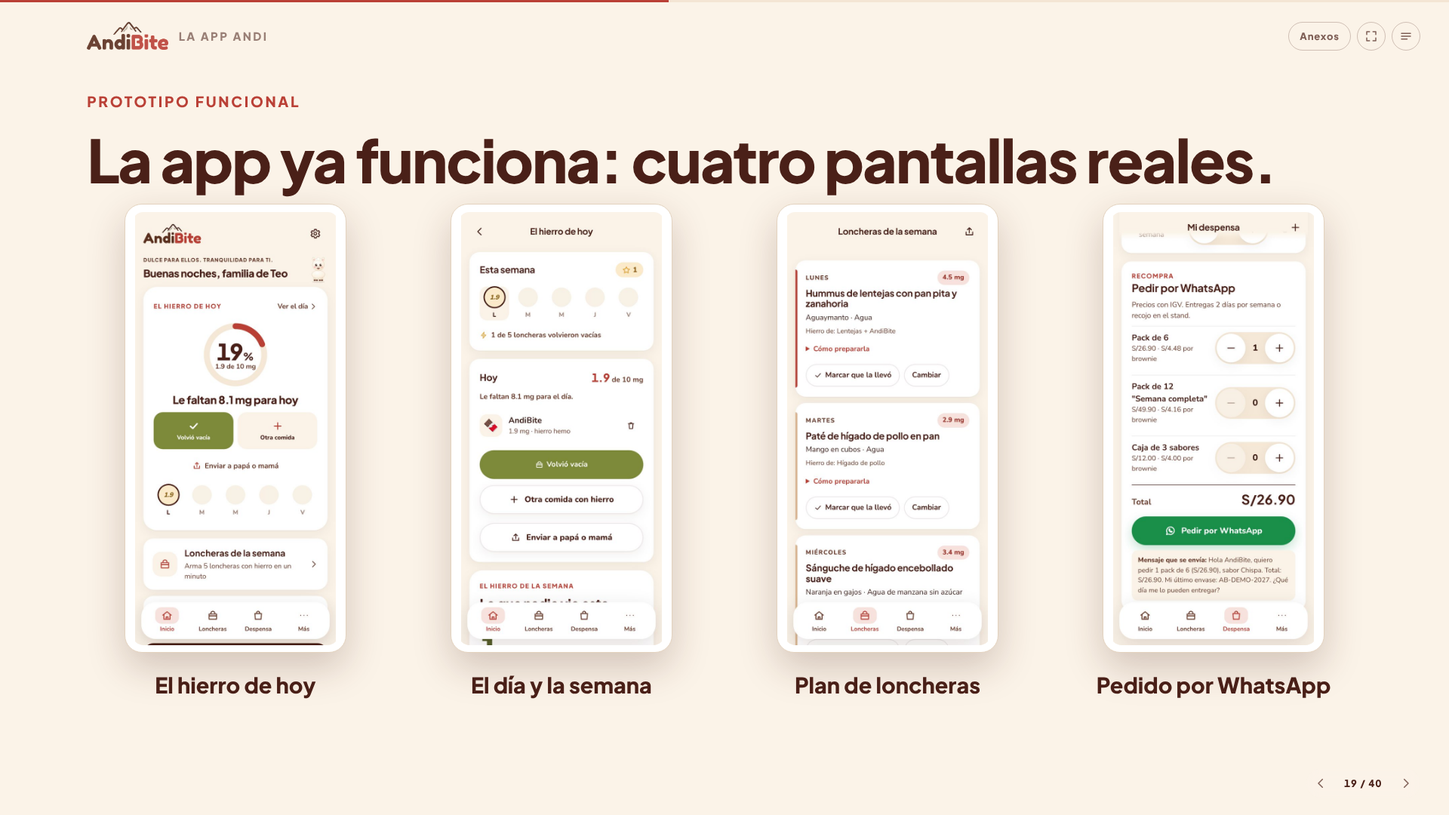
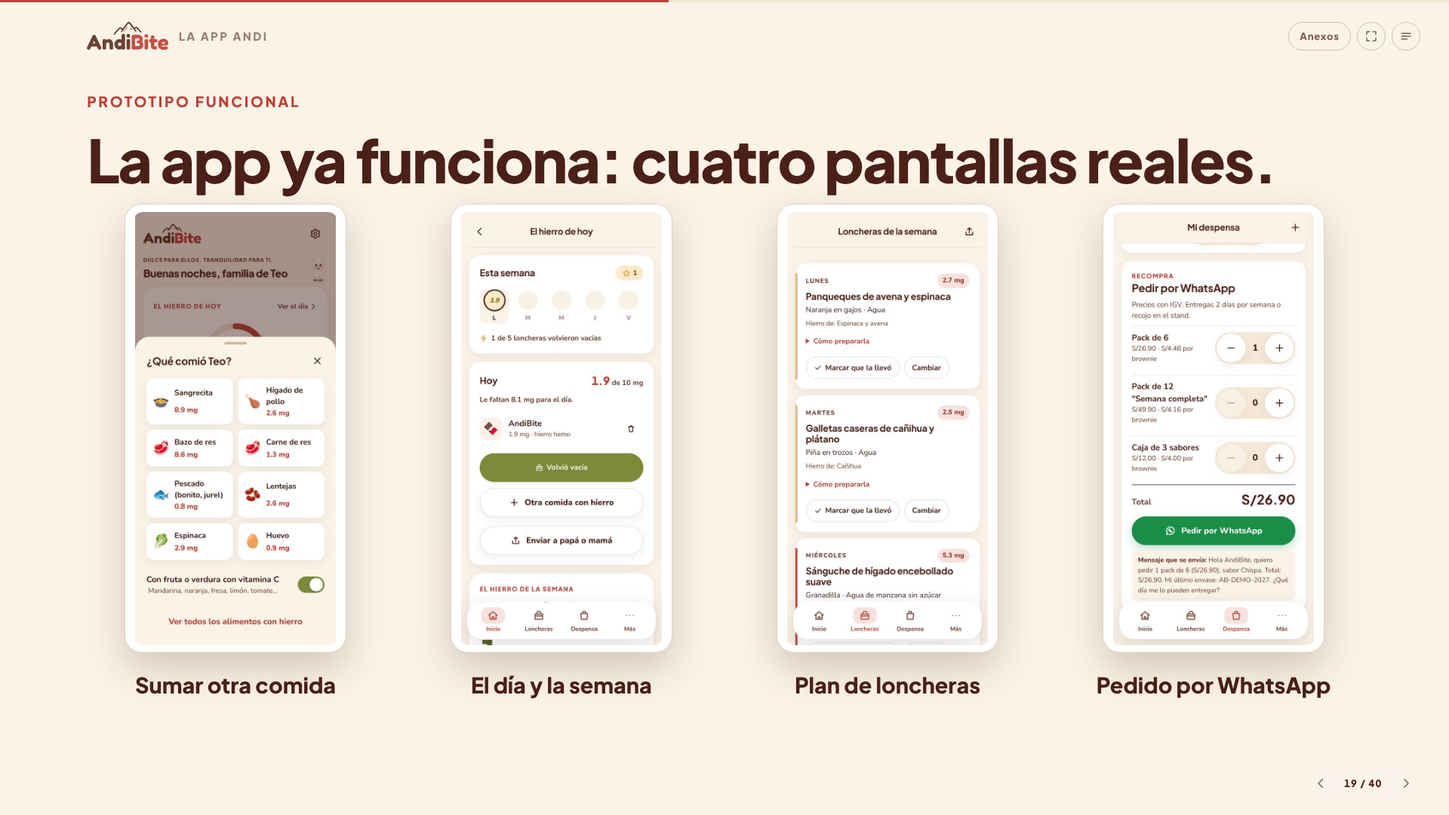
Ronda 2c: últimos ajustes del director y del diseñador
- App: encabezado opaco, pistas de los juegos en pastillas, textos sin 'el reto'.
- Presentación: pantalla 19 con 'Sumar otra comida' en vez de repetir el inicio, textos alternativos actualizados.
- HECHOS_v7 y documento de campaña al día.

Claude-Session: https://claude.ai/code/session_01Kfbf7cfV7pXUcNjjyaPCzV

diff --git a/04-reformulacion/T2/web-presentacion/index.html b/04-reformulacion/T2/web-presentacion/index.html
@@ -395,7 +395,7 @@
       </div>
       <p class="muted-lead in">Un brownie cubre cerca de la quinta parte del hierro que un niño de 4 a 8 años necesita al día.</p>
     </div>
-    <div class="phone phone-hero in"><img src="./img/app_reto.jpg" alt="Pantalla de inicio de la app Andi con el hierro de hoy" width="600" height="1298" loading="lazy" /></div>
+    <div class="phone phone-hero in"><img src="./img/app_reto.jpg" alt="Pantalla de inicio con el hierro de hoy" width="600" height="1298" loading="lazy" /></div>
   </div>
 </section>
 
@@ -405,8 +405,8 @@
     <p class="kicker in">Prototipo funcional</p>
     <h2 class="title in">La app ya funciona: cuatro pantallas reales.</h2>
     <div class="phones">
-      <figure class="in"><div class="phone"><img src="./img/app_reto.jpg" alt="Pantalla del reto lonchera vacía" width="600" height="1298" loading="lazy" /></div><figcaption>El hierro de hoy</figcaption></figure>
-      <figure class="in"><div class="phone"><img src="./img/app_semaforo.jpg" alt="Pantalla del semáforo de hierro semanal" width="600" height="1298" loading="lazy" /></div><figcaption>El día y la semana</figcaption></figure>
+      <figure class="in"><div class="phone"><img src="./img/app_comida.jpg" alt="Pantalla para sumar otra comida con hierro" width="600" height="1298" loading="lazy" /></div><figcaption>Sumar otra comida</figcaption></figure>
+      <figure class="in"><div class="phone"><img src="./img/app_semaforo.jpg" alt="Pantalla del hierro del día y de la semana" width="600" height="1298" loading="lazy" /></div><figcaption>El día y la semana</figcaption></figure>
       <figure class="in"><div class="phone"><img src="./img/app_plan.jpg" alt="Pantalla del plan de loncheras de la semana" width="600" height="1298" loading="lazy" /></div><figcaption>Plan de loncheras</figcaption></figure>
       <figure class="in"><div class="phone"><img src="./img/app_pedido.jpg" alt="Pantalla de la despensa y el pedido por WhatsApp" width="600" height="1298" loading="lazy" /></div><figcaption>Pedido por WhatsApp</figcaption></figure>
     </div>

diff --git a/app-andi-mision-hierro/src/styles/ninos.css b/app-andi-mision-hierro/src/styles/ninos.css
@@ -88,7 +88,7 @@ body.modo-ninos { background: #F7E2BC; }
 .nivel-chip-max { font-size: 15px; color: #6B3A2A; }
 .juego-inicio { padding-top: 10px; gap: 12px; text-align: center; min-height: calc(100dvh - 96px); align-content: center; padding-bottom: 32px; }
 .juego-inicio h1 { font-size: 34px; color: var(--tinta); }
-.juego-pista { display: flex; flex-wrap: wrap; gap: 8px; justify-content: center; background: #fff; border-radius: 24px; padding: 8px 18px; font-size: 20px; font-weight: 700; box-shadow: var(--sombra-nino); }
+.juego-pista { display: flex; flex-wrap: wrap; gap: 10px 12px; justify-content: center; background: #fff; border-radius: 24px; padding: 8px 18px; font-size: 20px; font-weight: 700; box-shadow: var(--sombra-nino); }
 .juego-pista span { font-size: 24px; }
 .andi-habla { display: flex; align-items: center; gap: 14px; width: 100%; cursor: pointer; margin-bottom: 16px; }
 .andi-habla .burbuja { flex: 1; }
@@ -229,7 +229,7 @@ body.modo-ninos { background: #F7E2BC; }
 }
 
 /* Ajustes del revisor visual */
-.pista-tramo { white-space: nowrap; }
+.pista-tramo { white-space: nowrap; background: var(--crema); border-radius: 999px; padding: 4px 14px; }
 .respuestas, .opciones, .teclado { margin-top: 32px; margin-bottom: 24px; }
 .juego-colegio, .juego-lonchera { justify-content: center; }
 .juego-memoria { min-height: calc(100dvh - 96px); align-content: center; }

diff --git a/app-andi-mision-hierro/src/styles/padres.css b/app-andi-mision-hierro/src/styles/padres.css
@@ -17,7 +17,7 @@
 .boton-crema { background: var(--crema); color: var(--cafe); }
 .boton-crema:hover { background: #fff; }
 
-.encabezado { display: flex; align-items: center; justify-content: space-between; gap: 8px; padding: 6px 0 0; position: sticky; top: 0; background: linear-gradient(var(--crema) 70%, rgba(251, 243, 232, 0)); z-index: 5; margin: 0 -4px; }
+.encabezado { display: flex; align-items: center; justify-content: space-between; gap: 8px; padding: 6px 0 0; position: sticky; top: 0; background: var(--crema); box-shadow: 0 1px 0 rgba(74, 32, 24, .08); z-index: 5; margin: 0 -4px; padding-bottom: 6px; }
 .encabezado h1 { font-size: 17px; font-weight: 700; text-align: center; flex: 1; color: var(--cafe); }
 
 /* Barra de navegación */
@@ -437,3 +437,5 @@ button.punto-dia:not(:disabled):active i { transform: scale(.92); }
 .dia-detalle .chip-activo { background: var(--oliva); color: #fff; }
 .dia-detalle .dia-acciones .chip { flex: 1; justify-content: center; }
 .bienvenida-paso .lead { font-size: 15px; max-width: 34ch; }
+
+.pantalla.inicio { padding-bottom: 120px; }

diff --git a/app-andi-mision-hierro/src/parents/Bienvenida.tsx b/app-andi-mision-hierro/src/parents/Bienvenida.tsx
@@ -126,7 +126,7 @@ export default function Bienvenida() {
                   </div>
                   {!consentido && (
                     <label className="casilla"><input type="checkbox" checked={acepto} onChange={e => setAcepto(e.target.checked)} />
-                      <span>Acepto que la app guarde el reto, la despensa y los recordatorios en este teléfono (Ley 29733). Puedo borrarlo todo cuando quiera.</span></label>
+                      <span>Acepto que la app guarde el hierro de cada día, la despensa y los recordatorios en este teléfono (Ley 29733). Puedo borrarlo todo cuando quiera.</span></label>
                   )}
                   <Boton ancho submit deshabilitado={!acepto || (consentido && !apodo.trim())}>Guardar y seguir</Boton>
                   <button type="button" className="enlace enlace-ancho" onClick={() => terminar(false)}>Ahora no</button>

diff --git a/app-andi-mision-hierro/src/parents/Mas.tsx b/app-andi-mision-hierro/src/parents/Mas.tsx
@@ -94,7 +94,7 @@ export function Privacidad() {
       <Encabezado titulo="Privacidad y datos" atras="/mas" />
       <Tarjeta>
         <h2>Lo que se queda en tu teléfono</h2>
-        <p>El apodo y la edad de tus hijos, el reto de la lonchera, sus estrellas, tus loncheras, tu despensa y los controles de hemoglobina. No tenemos cuentas ni contraseñas.</p>
+        <p>El apodo y la edad de tus hijos, el hierro de cada día y las loncheras vacías, sus estrellas, tus loncheras, tu despensa y los controles de hemoglobina. No tenemos cuentas ni contraseñas.</p>
         <h2>Lo que llega a nuestro servidor</h2>
         <p>El código del envase que escaneas, para mostrarte su lote y contar cuántas veces se escanea. Si usas el plan de loncheras, también el apodo, la edad y lo que tu hijo debe evitar, solo para armar ese plan. Nada más.</p>
         <h2>Modo niños</h2>

diff --git a/04-reformulacion/T2/web-presentacion/REVISION-31.md b/04-reformulacion/T2/web-presentacion/REVISION-31.md
@@ -1,7 +1,7 @@
 # Observaciones de Carlos (19-oct-2026) y estado
 
-Estado: **SEGUNDA VERIFICACIÓN DEL DIRECTOR, 19-oct-2026** (revisión del commit `331f3a6`; capturas `capturas/escritorio-01` a `44` y `celular-*` de las 20:23–20:26; capturas de la app `scratchpad/app-capturas3/*.png` de las 20:26–20:31; sitios publicados andibite.cingacordova.workers.dev y andi-app.cingacordova.workers.dev, revisados con curl). Resultado: **25 CUMPLIDOS y 6 NO CUMPLIDOS** (6, 12, 21, 26, 29 y 30), más 2 pendientes transversales.
-Primera verificación (commit `c7adaf2`): 21 cumplidos y 10 no cumplidos.
+Estado: **TERCERA VERIFICACIÓN DEL DIRECTOR, 19-oct-2026, 21:00** (commit `58efd7d`; capturas `capturas/escritorio-01` a `44` y `celular-*` regeneradas en ese commit; capturas de la app `scratchpad/app-capturas4/*.png` de las 20:42–20:47; capturas propias del director `scratchpad/v3/out/50-inicio-finde-semana.png` y `51-enviar-la-semana.png`, tomadas con Playwright sobre el sitio publicado; sitios andibite.cingacordova.workers.dev y andi-app.cingacordova.workers.dev revisados con curl; 32 tests pasan). Resultado: **29 CUMPLIDOS y 2 NO CUMPLIDOS** (26 y 29), más 1 transversal pendiente (hilo). **No se cierra todavía.**
+Segunda verificación (commit `331f3a6`): 25 cumplidos y 6 no cumplidos. Primera (commit `c7adaf2`): 21 y 10.
 Formato: `N. [CUMPLIDO|NO CUMPLIDO] evidencia · qué falta`. "Casi" cuenta como NO CUMPLIDO.
 
 1. Entre la 4 y la 5 aparece AndiBite: el divisor dice "Nuestra respuesta: AndiBite" y la 5 explica brevemente qué es.
@@ -20,7 +20,7 @@ Formato: `N. [CUMPLIDO|NO CUMPLIDO] evidencia · qué falta`. "Casi" cuenta como
    **[CUMPLIDO]** index.html:271. Captura escritorio-13.
 
 6. Propuesta de valor y app: el valor de la app es el control del hierro del día (mg frente a lo que necesita por edad), suma del brownie, de la lonchera y de otras comidas, y el resumen para el padre o la madre que no está en casa. App minimalista.
-   **[NO CUMPLIDO]** Cumple casi todo: "Enviar a papá o mamá" en Inicio (src/parents/Inicio.tsx:77 y :111; app-capturas3/06-inicio y public/img/app_reto.jpg) y en /hoy (Reto.tsx:193 y :225; captura 10-hoy), "Enviar la semana" en ResumenSemana (Reto.tsx:137 y :158), con navigator.share o wa.me (src/lib/compartir.ts); está en el sitio publicado (el bundle index-6JoC3SJf.js contiene los dos textos). **Falta:** el mensaje de la semana no coincide con lo que se ve en la pantalla. La tarjeta dice "{hierro.diasConHierro} de 7 días con hierro" (Reto.tsx:146), pero el mensaje cuenta solo los días de colegio y dice "de 5 días" (Reto.tsx:137 usa `semana.dias`, que son 5 días, y compartir.ts:17 tiene el "de 5" fijo), mientras suma los mg de los 7 días. Papá ve "6 de 7" y mamá recibe "5 de 5". Corrección: en Reto.tsx:137, `diasConHierro: hierro.diasConHierro`; en compartir.ts:15 y :17, "de 7 días con hierro"; en tests/logica.test.ts:120, el texto esperado. Falta también una captura de "Enviar la semana" (ResumenSemana en fin de semana).
+   **[CUMPLIDO]** "Enviar a papá o mamá" en Inicio y en /hoy (src/parents/Inicio.tsx; Reto.tsx; app-capturas4/06-inicio y 10-hoy) y "Enviar la semana" en ResumenSemana (Reto.tsx:137 y :158). El mensaje ya usa los mismos días que la pantalla: Reto.tsx:137 pasa `hierro.diasConHierro`, src/lib/compartir.ts:17 dice "de 7 días con hierro" y tests/logica.test.ts:120 lo comprueba. En el sitio publicado (bundle index-CSA3rmli.js) la pantalla de fin de semana muestra "5 de 7 días con hierro, 9.5 mg" y el mensaje enviado dice "Semana de Teo: 5 de 7 días con hierro, 9.5 mg en total. Loncheras vacías: 2." (scratchpad/v3/out/51-enviar-la-semana.png). Observación menor: los puntitos de la semana solo muestran L a V, así que un registro del sábado suma al "5 de 7" pero no tiene puntito.
 
 7. Pantalla 15 con impacto visual: foto, título grande, poco texto, animación.
    **[CUMPLIDO]** index.html:336-354. Captura escritorio-15.
@@ -38,7 +38,7 @@ Formato: `N. [CUMPLIDO|NO CUMPLIDO] evidencia · qué falta`. "Casi" cuenta como
    **[CUMPLIDO]** index.html:473-494 ("lo deja", botón "Su mañana"). Captura escritorio-23.
 
 12. Pantalla 24: ejes y cuadrantes con lenguaje profesional (sin "sabe a gusto", sin "sabe a remedio"); sin la línea de riesgo.
-   **[NO CUMPLIDO]** Lo visible está bien: título "Sabor o hierro: hasta hoy había que elegir." (index.html:503) y cuadrantes por sabor (src/mapa.ts:31-34); captura escritorio-24. **Falta** lo que se pidió en la ronda anterior: (a) src/mapa.ts:1 sigue diciendo "sabe a remedio o sabe a gusto" y :7 "0 = remedio, 1 = gusto"; deben decir "sabor de suplemento o sabor de postre" y "0 = suplemento, 1 = postre". (b) El aria-label de index.html:505 todavía dice "el único en el cuadrante rico y con hierro"; debe decir "el único con sabor de postre y con hierro". (c) Para que los cuatro cuadrantes digan lo mismo en el mismo orden, mapa.ts:31 debe decir "SABOR DE SUPLEMENTO, CON HIERRO" (hoy dice "CON HIERRO, SABOR DE SUPLEMENTO").
+   **[CUMPLIDO]** src/mapa.ts:1 y :7 ("sabor de suplemento o sabor de postre"; "0 = sabor de suplemento, 1 = sabor de postre"); los cuatro cuadrantes en el mismo orden, "SABOR DE … , CON/SIN HIERRO" (mapa.ts:31-34, también en el bundle publicado); aria-label de index.html:505 "el único con sabor de postre y con hierro". Título "Sabor o hierro: hasta hoy había que elegir." (:503). Captura escritorio-24.
 
 13. Pantalla 25: sin "cómo lo calculamos"; hogares explicados en una línea; menos texto en general.
    **[CUMPLIDO]** index.html:516-530. Captura escritorio-25.
@@ -65,7 +65,7 @@ Formato: `N. [CUMPLIDO|NO CUMPLIDO] evidencia · qué falta`. "Casi" cuenta como
    **[CUMPLIDO]** index.html:724-747. Captura escritorio-35.
 
 21. Pantalla de gasto con cifras y título coherente con el hilo de la campaña; títulos encadenados en todo el capítulo.
-   **[NO CUMPLIDO]** Título (index.html:753) y rubros (:762-765) bien; ya no se repite S/24,544. **Falta:** la cifra grande está mal explicada. "S/0.44 por cada brownie vendido, de octubre de 2026 a diciembre de 2027" (:756-757) no cuadra: S/24,544 ÷ 52,331 brownies da S/0.47. El S/0.44 de HECHOS_v7.md:169 y del Anexo 1 (:879) es solo el gasto de 2027 (S/22,786 ÷ 52,331 = S/0.435). Corrección en :757: "por cada brownie vendido en 2027". La otra opción es dejar el periodo y poner "S/0.47". Captura escritorio-36.
+   **[CUMPLIDO]** index.html:757 "por cada brownie vendido en 2027" (S/22,786 ÷ 52,331 = S/0.44, como HECHOS_v7.md:169 y el Anexo 1, :879). Título "S/24,544 para que toda Lima cuente su truco." (:753) y cuatro rubros con barras proporcionales que suman S/24,544 (:762-765: 100, 90, 78 y 54 % de S/7,596). Publicado. Captura escritorio-36.
 
 22. Sin textos pequeños sueltos que no transmiten nada.
    **[CUMPLIDO]** Pantalla 23 sin el pie de 12 px (index.html:468-497; captura escritorio-23). Pantalla 36 sin S/24,544 repetido (captura escritorio-36). Solo queda el .src permitido de la pantalla 3 (:97).
@@ -80,36 +80,33 @@ Formato: `N. [CUMPLIDO|NO CUMPLIDO] evidencia · qué falta`. "Casi" cuenta como
    **[CUMPLIDO]** .claude/agents/t2-creativo.md, CAMPANA-lo-que-nadie-ve.md y PROMPTS-campana.md. El documento ya no coincide con index.html en dos frases (ver el 26).
 
 26. Agente redactor aplicó la revisión de redacción a todo.
-   **[NO CUMPLIDO]** Corregido en la presentación: "que tu hijo te vuelve a pedir" (index.html:606), pantalla 39 (:820), "Ocho mamás" en la 8 y la 11 (:172 y :215) y "Nadie aplaude esos trucos, porque nadie los ve." (:605). **Falta:** (a) CAMPANA-lo-que-nadie-ve.md:50 sigue con "un mini brownie que te vuelve a pedir": debe decir "que tu hijo te vuelve a pedir". (b) CAMPANA:48 sigue con la frase eco "Nadie aplaude esos trucos. Nadie los ve.": debe decir "Nadie aplaude esos trucos, porque nadie los ve.". (c) CAMPANA:37 dice "…cada casa tiene su truco, y nadie lo aplaude.", lo mismo que la 29: hay que quitar ", y nadie lo aplaude" para que diga igual que index.html:586. (d) En el Canvas, index.html:308 dice "La app: reto diario, loncheras y aviso de recompra", que es la app vieja; debe decir "La app: el hierro de cada día, loncheras y aviso de recompra".
+   **[NO CUMPLIDO]** Resuelto lo de la ronda 2: CAMPANA-lo-que-nadie-ve.md:37, :48 y :50 iguales a index.html:586, :605 y :606; Canvas index.html:308 "La app: el hierro de cada día, loncheras y aviso de recompra" (captura escritorio-14). **Falta:** quedan textos de la app vieja ("el reto"), dos que ven papá y mamá y dos de accesibilidad: (a) app src/parents/Bienvenida.tsx:129, casilla de consentimiento: "Acepto que la app guarde el reto, la despensa…" debe decir "Acepto que la app guarde el hierro de cada día, la despensa y los recordatorios en este teléfono (Ley 29733)…". (b) src/parents/Mas.tsx:97: "el reto de la lonchera" debe decir "el hierro de cada día y las loncheras vacías". (c) index.html:408, alt "Pantalla del reto lonchera vacía" debe decir "Pantalla de inicio con el hierro de hoy". (d) index.html:409, alt "Pantalla del semáforo de hierro semanal" (la imagen es /hoy) debe decir "Pantalla del hierro del día y de la semana". Republicar las dos apps.
 
 27. Director verificó todos los puntos.
-   **[CUMPLIDO]** Primera verificación (commit c7adaf2) y esta segunda (commit 331f3a6), con evidencia por punto.
+   **[CUMPLIDO]** Tres verificaciones con evidencia por punto: commits c7adaf2, 331f3a6 y 58efd7d (esta).
 
 28. Logo AndiBite pequeño en todas las pantallas.
    **[CUMPLIDO, con excepción aceptada]** Está en 38 de 40 pantallas principales y en los 4 anexos (index.html:17). En la portada (1) y el cierre (40) el logo pequeño se oculta (style.css:1273) porque el logo grande ocupa el centro de la pantalla (index.html:60 y :841; capturas escritorio-01 y 40, celular-01). Poner los dos sería repetir la marca. Se acepta la excepción.
 
 29. Ciclo de revisión (/loop) hasta cumplir todo.
-   **[NO CUMPLIDO]** En curso: ronda 1 (10 pendientes) y ronda 2 (esta, 6 pendientes y 2 transversales). Se cierra cuando la lista de pendientes quede en cero.
+   **[NO CUMPLIDO]** Ronda 1: 10 pendientes; ronda 2: 6 y 2 transversales; ronda 3 (esta): 1 punto (26) y 1 transversal (hilo). Se cierra cuando la lista quede en cero.
 
 30. App: control de hierro del día mejorado (ver 6).
-   **[NO CUMPLIDO]** Anillo de mg frente a la referencia por edad, tres formas de sumar, /hoy y envío del día bien (capturas 06, 08, 09 y 10). Falta lo mismo que en el 6: el mensaje "Enviar la semana" dice "de 5 días" y la pantalla "de 7 días".
+   **[CUMPLIDO]** Anillo de mg frente a la referencia por edad, "Volvió vacía" y "Otra comida", /hoy con pestaña Inicio activa, envío del día y de la semana con las mismas cifras de la pantalla (app-capturas4/06, 08, 09 y 10; scratchpad/v3/out/50 y 51). Ver el 6.
 
 31. Juegos con niveles y duración (30 a 60 min de contenido), tres juegos de colegio por edad.
-   **[CUMPLIDO]** Sin cambios desde la ronda 1: src/data/ninos.ts:61, src/kids/colegio.ts y src/data/juegos-colegio.ts; capturas app-capturas3/16 a 23 (mapa y 7 juegos jugando).
+   **[CUMPLIDO]** src/data/ninos.ts:61, src/kids/colegio.ts y src/data/juegos-colegio.ts; capturas app-capturas4/16 a 23 (mapa centrado con los 7 juegos y su nivel, cada juego jugando, Viste a Andi con 6 trajes bloqueados por estrellas o nivel).
 
 ## Revisión transversal
 
 - **T1 · Canvas, pantalla 14.** **[CUMPLIDO]** Captura escritorio-14: las 9 cajas muestran todos sus puntos, sin cortes, en letra legible (style.css:1302, de 11 a 18 px).
-- **Coherencia del hilo.** **[NO CUMPLIDO]** Resuelto: 33 "Primero lo cuentan ellos" antes del 34 "En el stand"; la 39 describe la app actual; 20 y 21 sin el 35 % repetido; un solo "nadie aplaude" en la presentación. **Falta:** la 4.ª captura de la pantalla 19, "Pedido por WhatsApp" (public/img/app_pedido.jpg y app-capturas3/43-despensa-pack.png), ya muestra la despensa con el pack, pero el botón "Pedir por WhatsApp" queda tapado por la barra de navegación: solo se lee "RECOMPRA". Corrección: capturar la despensa desplazada hasta que se vea completo el botón de WhatsApp (o recortar la barra inferior) y reemplazar app_pedido.jpg. Además, escritorio-18 y 19 (20:24) son anteriores a las imágenes nuevas app_reto.jpg (20:28) y app_pedido.jpg (20:32): siguen mostrando la despensa vacía y el inicio sin "Enviar a papá o mamá". El sitio publicado sí tiene las imágenes nuevas (mismo md5), pero hay que volver a sacar escritorio-18 y 19 y celular para que la evidencia esté al día.
-- **Papá y mamá.** **[NO CUMPLIDO, fuera de la presentación]** Presentación y app cumplen (punto 9). En HECHOS_v7.md, dentro de las decisiones vigentes, quedan dos cosas: (a) :16, el discurso de un minuto que se dice en la sustentación, empieza "Toda mamá en Lima sabe… Y toda mamá sabe…"; debe decir "Todo papá y toda mamá en Lima saben que su hijo necesita hierro. Y saben lo que pasa cuando intentan dárselo…". (b) :106 dice "Mamás embajadoras… El premio es para el padre"; debe decir "Papás y mamás embajadores… El premio es para el papá o la mamá" (así está en index.html:685). Menor: t2-redactor.md:12, "para una mamá de Lima" debe decir "para un papá o una mamá de Lima".
-- **Palabras prohibidas.** **[CUMPLIDO]** Grep en index.html, src/, la app (src, data, worker), CAMPANA y PROMPTS: no aparecen "supuesto", "estimado", "[POR CONFIRMAR]", "EXPOINNOVA" ni "Hierro medido. Sabor a brownie."; "siempre" ya no acompaña a los 1.9 mg (solo queda en comentarios de código y en el prompt interno de worker/plan.ts:85, que nadie ve en pantalla). Sin frases espejo en la presentación; la única que queda está en CAMPANA:48 (punto 26b).
+- **Coherencia del hilo.** **[NO CUMPLIDO]** Resuelto lo de la ronda 2: public/img/app_pedido.jpg muestra el pack, el total S/26.90, el botón "Pedir por WhatsApp" completo y el mensaje que se envía (mismo md5 en el sitio publicado); escritorio-18 y 19 y celular regenerados con las imágenes nuevas. **Falta:** la pantalla 18 (index.html:398) y la primera de las "cuatro pantallas reales" de la 19 (:408) son la misma imagen, app_reto.jpg (se ve en escritorio-18 y escritorio-19): el público ve la misma pantalla dos veces seguidas y la 19 promete cuatro distintas. Corrección: en :408 usar otra pantalla, por ejemplo app-capturas4/09-hoja-comida.png exportada a public/img/app_comida.jpg (600 × 1298), con pie "Sumar otra comida" y alt "Hoja para sumar otra comida con hierro"; volver a sacar escritorio-19 y republicar.
+- **Papá y mamá.** **[CUMPLIDO]** Presentación y app (punto 9; escritorio-33 "Papás y mamás embajadores"). HECHOS_v7.md:16 "Todo papá y toda mamá en Lima saben…" y :106 "Papás y mamás embajadores… El premio es para el papá o la mamá"; t2-redactor.md:6 y :12 "un papá o una mamá de Lima". Errata en HECHOS_v7.md:16 (no afecta el punto, pero es el discurso que se dice en voz alta): "cuando intenta dárselo" debe ser "cuando intentan dárselo".
+- **Palabras prohibidas.** **[CUMPLIDO]** Grep en index.html, src/ de la presentación, src/ y worker/ de la app, CAMPANA y PROMPTS: no aparecen "supuesto" (solo dentro de "presupuesto"), "estimado", "[POR CONFIRMAR]", "EXPOINNOVA" ni "Hierro medido. Sabor a brownie."; "su prueba… la tuya" solo en la lista de frases que se evitan (CAMPANA:198). Sin frases espejo: CAMPANA:48 ya dice "Nadie aplaude esos trucos, porque nadie los ve.". Nota: CAMPANA:201 dice que HECHOS_v7 todavía tiene "Su prueba…", pero HECHOS_v7.md:21 ya lo reemplazó; borrar esa línea.
 
-## Pendientes ordenados por importancia (ronda 2)
+## Pendientes ordenados por importancia (ronda 3)
 
-1. Puntos 6 y 30: que el mensaje "Enviar la semana" use los mismos días que la pantalla (Reto.tsx:137, compartir.ts:15 y :17, test :120).
-2. Punto 21: corregir la línea del S/0.44 en la pantalla 36 (index.html:757: "por cada brownie vendido en 2027").
-3. Hilo: nueva captura app_pedido.jpg con el botón de WhatsApp visible y volver a sacar escritorio-18, 19 y celular.
-4. Punto 26: CAMPANA:37, :48 y :50; Canvas index.html:308 ("reto diario").
-5. Punto 12: comentario de mapa.ts:1 y :7, aria-label de index.html:505 y orden del cuadrante en mapa.ts:31.
-6. Papá y mamá: HECHOS_v7.md:16 y :106; t2-redactor.md:12.
-7. Punto 29: tercera ronda con estos pendientes.
+1. Punto 26: "el reto" en Bienvenida.tsx:129 y Mas.tsx:97; alt de index.html:408 y :409. Republicar las dos apps.
+2. Hilo: en la pantalla 19 (index.html:408) reemplazar app_reto.jpg, que repite la 18, por otra pantalla (09-hoja-comida → app_comida.jpg, pie "Sumar otra comida"); nueva escritorio-19.
+3. Menores, sin estado: HECHOS_v7.md:16 "cuando intentan dárselo"; borrar CAMPANA:201.
+4. Punto 29: cuarta verificación con estos pendientes; si quedan en cero, se cierra.

diff --git a/04-reformulacion/T2/HECHOS_v7.md b/04-reformulacion/T2/HECHOS_v7.md
@@ -13,7 +13,7 @@
 - **Slogan oficial:** "Dulce para ellos. Tranquilidad para ti." Reemplaza a "Hierro medido. Sabor a brownie." en la presentación web, la app y, cuando se actualicen, en los Word y el pptx. Jerarquía de mensajes: 1) gancho emocional (slogan); 2) "con hierro de verdad"; 3) la ficha: "1.9 mg de hierro en cada unidad, medido en cada lote". El hierro medido es una promesa que se cumple, no un diferencial ni un gancho.
 - **Propuesta de valor (fórmula de Moore):** "Ayudamos a padres y madres de Lima con hijos de 4 a 11 años a darles el hierro que necesitan sin que cada mañana sea una pelea. Lo hacemos con AndiBite, un mini brownie que el niño vuelve a pedir, y con la app Andi, que les muestra a papá y mamá el hierro que lleva su hijo cada día." Versión corta para el Canvas: "Ayudamos a las familias de Lima a darle hierro a sus hijos sin pelear cada mañana, con un mini brownie con sangrecita que el niño vuelve a pedir y una app que les muestra a papá y mamá el hierro de cada día." Título de la pantalla: "Hierro sin pelear cada mañana."
 - **Con qué se cumple:** sangrecita escondida en la receta (no se nota), hecho para la lonchera (20 g, sin octógonos), tres sabores y el personaje Andi en el empaque, y la app Andi (el hierro de hoy para papá y mamá, juegos para el niño, pedido por WhatsApp).
-- **Discurso de un minuto:** "Todo papá y toda mamá en Lima saben que su hijo necesita hierro. Y saben lo que pasa cuando intenta dárselo: la lonchera vuelve llena, el jarabe sabe a metal y la sangrecita ni la toca. Darle hierro a un niño es una pelea de todas las mañanas. Nosotros no inventamos otro alimento sano. Inventamos un brownie. Un mini brownie de 20 g que el niño disfruta como un gusto, que cabe en la lonchera y que pide al día siguiente. Adentro lleva sangrecita liofilizada, 1.9 mg de hierro en cada unidad, y no se nota. Sin octógonos, para que entre al colegio. Y con Andi, nuestra app, la lonchera se vuelve un juego para él y un reporte semanal para ti. Eso es AndiBite: ayudamos a las familias de Lima a darle hierro a sus hijos sin pelear cada mañana, con un brownie que el niño vuelve a pedir. Dulce para ellos. Tranquilidad para ti."
+- **Discurso de un minuto:** "Todo papá y toda mamá en Lima saben que su hijo necesita hierro. Y saben lo que pasa cuando intentan dárselo: la lonchera vuelve llena, el jarabe sabe a metal y la sangrecita ni la toca. Darle hierro a un niño es una pelea de todas las mañanas. Nosotros no inventamos otro alimento sano. Inventamos un brownie. Un mini brownie de 20 g que el niño disfruta como un gusto, que cabe en la lonchera y que pide al día siguiente. Adentro lleva sangrecita liofilizada, 1.9 mg de hierro en cada unidad, y no se nota. Sin octógonos, para que entre al colegio. Y con Andi, nuestra app, la lonchera se vuelve un juego para él y un reporte semanal para ti. Eso es AndiBite: ayudamos a las familias de Lima a darle hierro a sus hijos sin pelear cada mañana, con un brownie que el niño vuelve a pedir. Dulce para ellos. Tranquilidad para ti."
 - **App Andi (versión 3):** el centro es "El hierro de hoy": un anillo con los mg del día frente a la referencia por edad (10 mg de 4 a 8 años, 8 mg de 9 a 11); marcar la lonchera vacía suma el brownie (1.9 mg) y da una estrella al niño; la lonchera del plan y otras comidas se suman con un toque; el día y la semana se pueden enviar a papá o mamá por WhatsApp. Juegos con niveles: Memoria, Atrapa el hierro, Lonchera exprés y Viste a Andi, más tres de colegio por edad (Suma de hierro, Palabras de la lonchera, Inglés de lonchera). Plan de loncheras con IA (API de Claude, modelo Claude Opus 5.5) que se desbloquea 14 días con cada QR de bolsa escaneado; solo esa sección se bloquea. La ficha del lote y el informe del laboratorio quedan en "Más". Bienvenida de 3 pantallas y barra de 4 secciones (Inicio, Loncheras, Despensa, Más).
 - **Investigación (cifras finales):** 25 entrevistas a profundidad; 8 participantes en el focus 1; 8 mamás probaron el prototipo (hay fotos de 4); 2 recorridos de tienda: Wong La Molina y Flora & Fauna. Votación del formato: brownie 15, trufas 10, wafer 8 (33 votos entre focus y entrevistas).
 - **Puntos de venta:** punto 1 Jockey Plaza (enero 2027), punto 2 Salaverry (febrero 2027, zona de Rodrigo), punto 3 La Molina (agosto 2027, familias A). Mismo costo del plan (S/600 al mes por punto más vendedor).

diff --git a/04-reformulacion/T2/web-presentacion/CAMPANA-lo-que-nadie-ve.md b/04-reformulacion/T2/web-presentacion/CAMPANA-lo-que-nadie-ve.md
@@ -198,4 +198,3 @@ La app es la parte de la idea que «muestra lo que nadie ve». Se ajustan tres t
 - **Palabras que se evitan:** «engañar» (decimos «esconder» o «truco»); «su prueba… la tuya…»; frases de dos partes en eco.
 - **Marca registrada:** «de Hulk» queda solo en el manifiesto de la presentación, porque es como lo dicen los papás. En la pauta pagada se dice «superhéroe» o «superpoderes» (Hulk es una marca de Marvel).
 - **Antes de publicar:** revisar que #LoQueNadieVe no lo use otra marca en Perú, y pasar estos textos por el agente `t2-redactor`.
-- **HECHOS_v7 por actualizar (cuando Carlos lo pida):** la línea de campaña y el cartel del stand siguen con «Su prueba: la lonchera vacía. La tuya: verlo en la app.»; se reemplazan por esta campaña.
